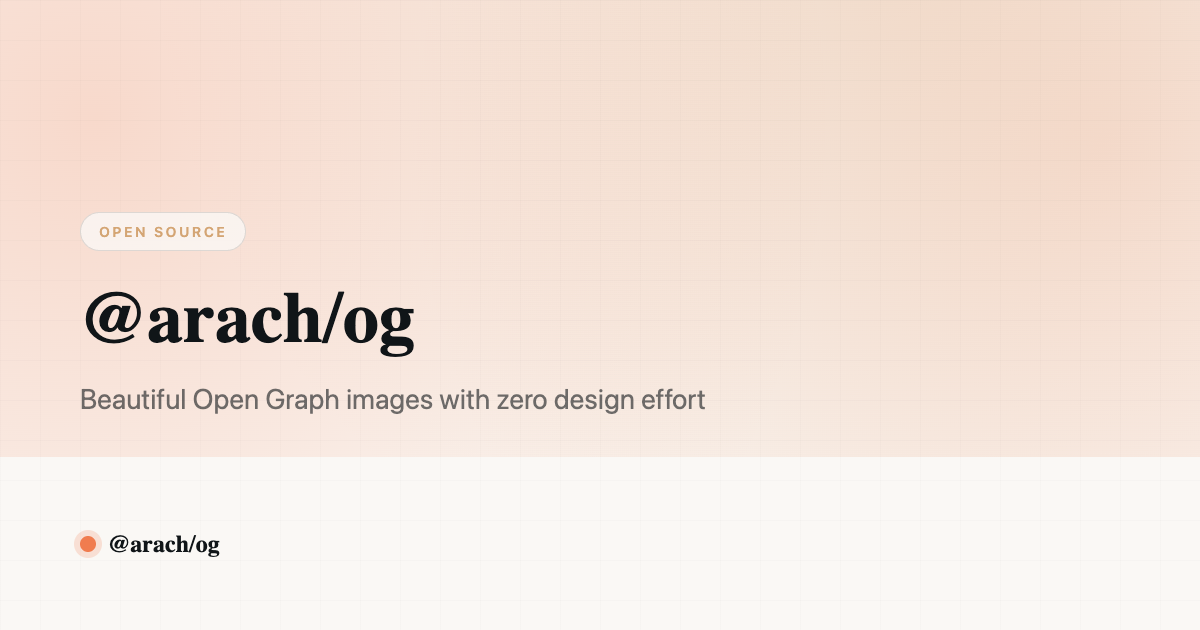
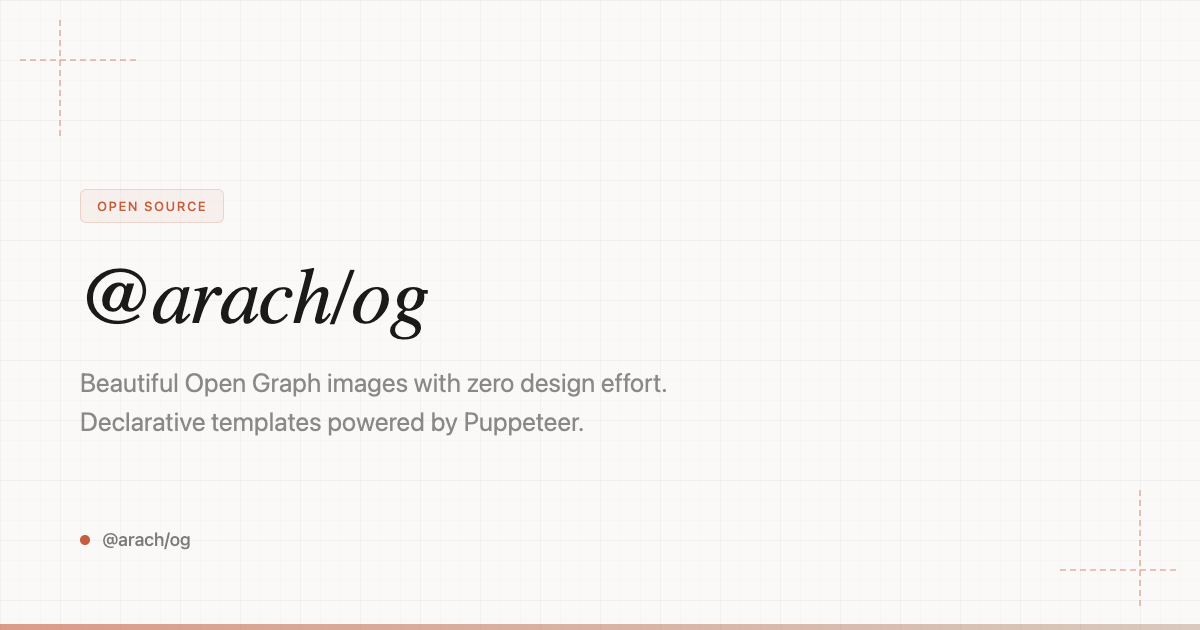
🎨 Redesign branded template with corner crosses and Instrument Serif

diff --git a/src/templates/branded.ts b/src/templates/branded.ts
@@ -1,7 +1,7 @@
 import type { TemplateFunction } from '../types.js'
 
 /**
- * Branded template - full featured with grid overlay, gradient glows, and tag
+ * Branded template - full featured with grid overlay, corner crosses, and refined typography
  */
 export const branded: TemplateFunction = (ctx) => `
 <!DOCTYPE html>
@@ -26,30 +26,42 @@ export const branded: TemplateFunction = (ctx) => `
       position: relative;
       overflow: hidden;
     }
-    .glow {
-      position: absolute;
-      inset: -10% -10% auto -10%;
-      height: 520px;
-      background:
-        radial-gradient(circle at 15% 35%, ${ctx.accent}40, transparent 58%),
-        radial-gradient(circle at 70% 0%, ${ctx.accentSecondary}38, transparent 65%),
-        radial-gradient(circle at 85% 40%, ${ctx.accent}30, transparent 55%);
-      pointer-events: none;
-    }
     .grid {
       position: absolute;
       inset: 0;
       background-image:
-        linear-gradient(${ctx.textColor}08 1px, transparent 1px),
-        linear-gradient(90deg, ${ctx.textColor}08 1px, transparent 1px);
-      background-size: 40px 40px;
-      opacity: 0.5;
+        linear-gradient(${ctx.textColor}06 1px, transparent 1px),
+        linear-gradient(90deg, ${ctx.textColor}06 1px, transparent 1px);
+      background-size: 60px 60px;
+    }
+    .grid-small {
+      position: absolute;
+      inset: 0;
+      background-image:
+        linear-gradient(${ctx.textColor}03 1px, transparent 1px),
+        linear-gradient(90deg, ${ctx.textColor}03 1px, transparent 1px);
+      background-size: 20px 20px;
+    }
+    .corner-cross {
+      position: absolute;
+      stroke: ${ctx.accent};
+      stroke-width: 1;
+      stroke-dasharray: 6 4;
+      opacity: 0.7;
+    }
+    .corner-tl {
+      top: 0;
+      left: 0;
+    }
+    .corner-br {
+      bottom: 0;
+      right: 0;
     }
     .content {
       position: relative;
       z-index: 1;
       height: 100%;
-      padding: 72px 80px;
+      padding: 80px;
       display: flex;
       flex-direction: column;
       justify-content: center;
@@ -58,57 +70,82 @@ export const branded: TemplateFunction = (ctx) => `
       display: inline-flex;
       align-items: center;
       gap: 8px;
-      padding: 10px 18px;
-      border-radius: 999px;
-      border: 1px solid ${ctx.textColor}20;
-      background: ${ctx.background}cc;
-      font-size: 14px;
-      font-weight: 600;
+      padding: 8px 16px;
+      border-radius: 6px;
+      border: 1px solid ${ctx.accent}30;
+      background: ${ctx.accent}10;
+      font-family: '${ctx.fonts[1] || ctx.fonts[0]}', system-ui, sans-serif;
+      font-size: 13px;
+      font-weight: 500;
       text-transform: uppercase;
-      letter-spacing: 0.18em;
-      color: ${ctx.accentSecondary};
-      margin-bottom: 28px;
+      letter-spacing: 0.12em;
+      color: ${ctx.accent};
+      margin-bottom: 32px;
       width: fit-content;
     }
     .title {
       font-family: '${ctx.fonts[0]}', serif;
-      font-size: 72px;
-      font-weight: 600;
-      line-height: 1.1;
+      font-size: 80px;
+      font-weight: 400;
+      font-style: italic;
+      line-height: 1.05;
       max-width: 900px;
-      margin-bottom: 20px;
+      margin-bottom: 24px;
+      letter-spacing: -0.02em;
     }
     .subtitle {
-      font-size: 28px;
-      color: ${ctx.textColor}99;
-      max-width: 700px;
-      line-height: 1.4;
+      font-family: '${ctx.fonts[1] || ctx.fonts[0]}', system-ui, sans-serif;
+      font-size: 26px;
+      font-weight: 400;
+      color: ${ctx.textColor}80;
+      max-width: 650px;
+      line-height: 1.5;
     }
     .brand {
       position: absolute;
-      bottom: 72px;
+      bottom: 80px;
       left: 80px;
       display: flex;
       align-items: center;
       gap: 12px;
     }
     .brand-dot {
-      width: 16px;
-      height: 16px;
+      width: 10px;
+      height: 10px;
       border-radius: 50%;
       background: ${ctx.accent};
-      box-shadow: 0 0 0 6px ${ctx.accent}33;
     }
     .brand-name {
-      font-family: '${ctx.fonts[0]}', serif;
-      font-size: 24px;
-      font-weight: 600;
+      font-family: '${ctx.fonts[1] || ctx.fonts[0]}', system-ui, sans-serif;
+      font-size: 18px;
+      font-weight: 500;
+      color: ${ctx.textColor}90;
+    }
+    .bottom-bar {
+      position: absolute;
+      bottom: 0;
+      left: 0;
+      right: 0;
+      height: 6px;
+      background: linear-gradient(90deg, ${ctx.accent}, ${ctx.accentSecondary || ctx.accent}80);
+      opacity: 0.6;
     }
   </style>
 </head>
 <body>
-  <div class="glow"></div>
   <div class="grid"></div>
+  <div class="grid-small"></div>
+
+  <!-- Corner crosses -->
+  <svg class="corner-cross corner-tl" width="200" height="200" viewBox="0 0 200 200">
+    <path d="M 20 60 L 140 60" fill="none"/>
+    <path d="M 60 20 L 60 140" fill="none"/>
+  </svg>
+  <svg class="corner-cross corner-br" width="200" height="200" viewBox="0 0 200 200">
+    <path d="M 60 140 L 180 140" fill="none"/>
+    <path d="M 140 60 L 140 180" fill="none"/>
+  </svg>
+
   <div class="content">
     ${ctx.tag ? `<div class="tag">${ctx.tag}</div>` : ''}
     <h1 class="title">${ctx.title}</h1>
@@ -118,6 +155,7 @@ export const branded: TemplateFunction = (ctx) => `
     <span class="brand-dot"></span>
     <span class="brand-name">${ctx.title.split('|')[0]?.trim() || ''}</span>
   </div>
+  <div class="bottom-bar"></div>
 </body>
 </html>
 `
